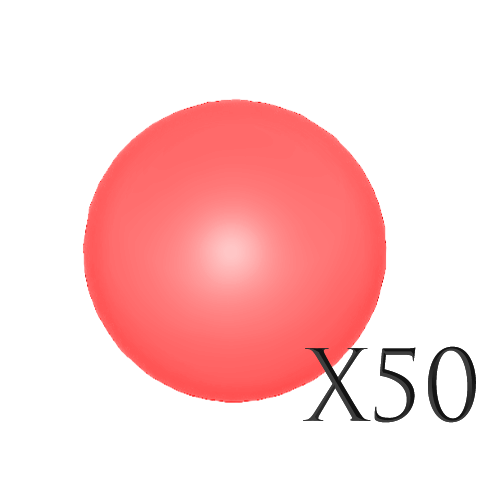
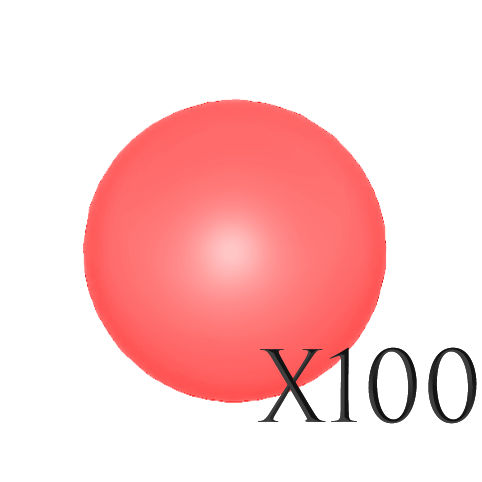
fixed updating of bullets when buying for the active weapon

Changed region(s): [[0.529, 0.7158, 0.8714, 0.9025], [0.9336, 0.778, 0.9959, 0.9025], [0.9025, 0.7158, 0.9647, 0.7469]]

diff --git a/Assets/Scripts/Weapon/GunController.cs b/Assets/Scripts/Weapon/GunController.cs
@@ -60,11 +60,11 @@ public class GunController : MonoBehaviour
                         playerWeaponBar.activeWeapon.ammunition = bullets;
                         gameManager.weaponList.UpdateWeapon(playerWeaponBar.activeWeapon);
 
-                        playerWeaponBar.UpdateBullets(bullets.ToString(),activeWeaponObject);
+                        playerWeaponBar.UpdateBullets(bullets.ToString());
                     }
                     else
                     {
-                        playerWeaponBar.UpdateBullets("\u221E", activeWeaponObject);
+                        playerWeaponBar.UpdateBullets("\u221E");
                     }
                     //CambiarCanvas();
 
@@ -98,7 +98,7 @@ public class GunController : MonoBehaviour
                     playerWeaponBar.activeWeapon.ammunition = bullets;
                     gameManager.weaponList.UpdateWeapon(playerWeaponBar.activeWeapon);
 
-                    playerWeaponBar.UpdateBullets(bullets.ToString(), activeWeaponObject);
+                    playerWeaponBar.UpdateBullets(bullets.ToString());
 
                     GameObject newBullet = Instantiate(bullet, spawnPoint.position, spawnPoint.rotation);
 

diff --git a/Assets/Scripts/Player/PlayerWeaponBar.cs b/Assets/Scripts/Player/PlayerWeaponBar.cs
@@ -23,9 +23,6 @@ public class PlayerWeaponBar : MonoBehaviour
     {
         gameManager = GameObject.Find("GameManager").GetComponent<GameManager>();
 
-        //Initialize list of weapons
-        //gameManager.weaponList.SetOneWeaponActive(0);
-
         //Set isActive bullet
         var weapon = gameManager.weaponList.GetWeapon(0);
         activeWeapon = weapon;
@@ -90,7 +87,7 @@ public class PlayerWeaponBar : MonoBehaviour
         }
     }
 
-    public void UpdateBullets(string bullets, object[] activeWeaponObject)
+    public void UpdateBullets(string bullets)
     {
         bulletTxt.text = bullets.ToString();
     }
@@ -105,7 +102,13 @@ public class PlayerWeaponBar : MonoBehaviour
 
     public void BuyBullets(Bullet bullet)
     {
-        gameManager.weaponList.UpdateWeapon(bullet.gun, bullet.quantity);
+        int ammunition= gameManager.weaponList.UpdateWeapon(bullet.gun, bullet.quantity);
+
+        //If we're buying for the active weapon we need to update the bullet number
+        if (bullet.gun == activeWeapon.gun)
+        {
+            UpdateBullets(ammunition.ToString());
+        }
     }
 
     public void BuyMedicalKit()

diff --git a/Assets/Scripts/Weapon/Models/WeaponList.cs b/Assets/Scripts/Weapon/Models/WeaponList.cs
@@ -51,7 +51,7 @@ public class WeaponList
         }
     }
 
-    public void UpdateWeapon(GameObject gun, int ammunition)
+    public int UpdateWeapon(GameObject gun, int ammunition)
     {
         for(int i = 0;i < weapons.Count;i++) { 
         var wpn = weapons[i];
@@ -60,8 +60,12 @@ public class WeaponList
             if (wpn.gun == gun) {
                 wpn.ammunition += ammunition;
                 weapons[i] = wpn;
+
+                //returns the new bullets' number
+                return wpn.ammunition;
             }
         }
+        return 0;
     }
     public void UpdateWeapon(Weapon weapon)
     {
@@ -96,19 +100,5 @@ public class WeaponList
         return null;
     }
 
-    /* public void SetOneWeaponActive(int index)
-     {
-         for (int i = 0; i < weapons.Count; i++)
-         {
-             if (i != index)
-             {
-                 weapons[i].gun.SetActive(false);
-             }
-             else
-             {
-                 weapons[i].gun.SetActive(true);
-             }
-         }
-     }*/
 
 }
